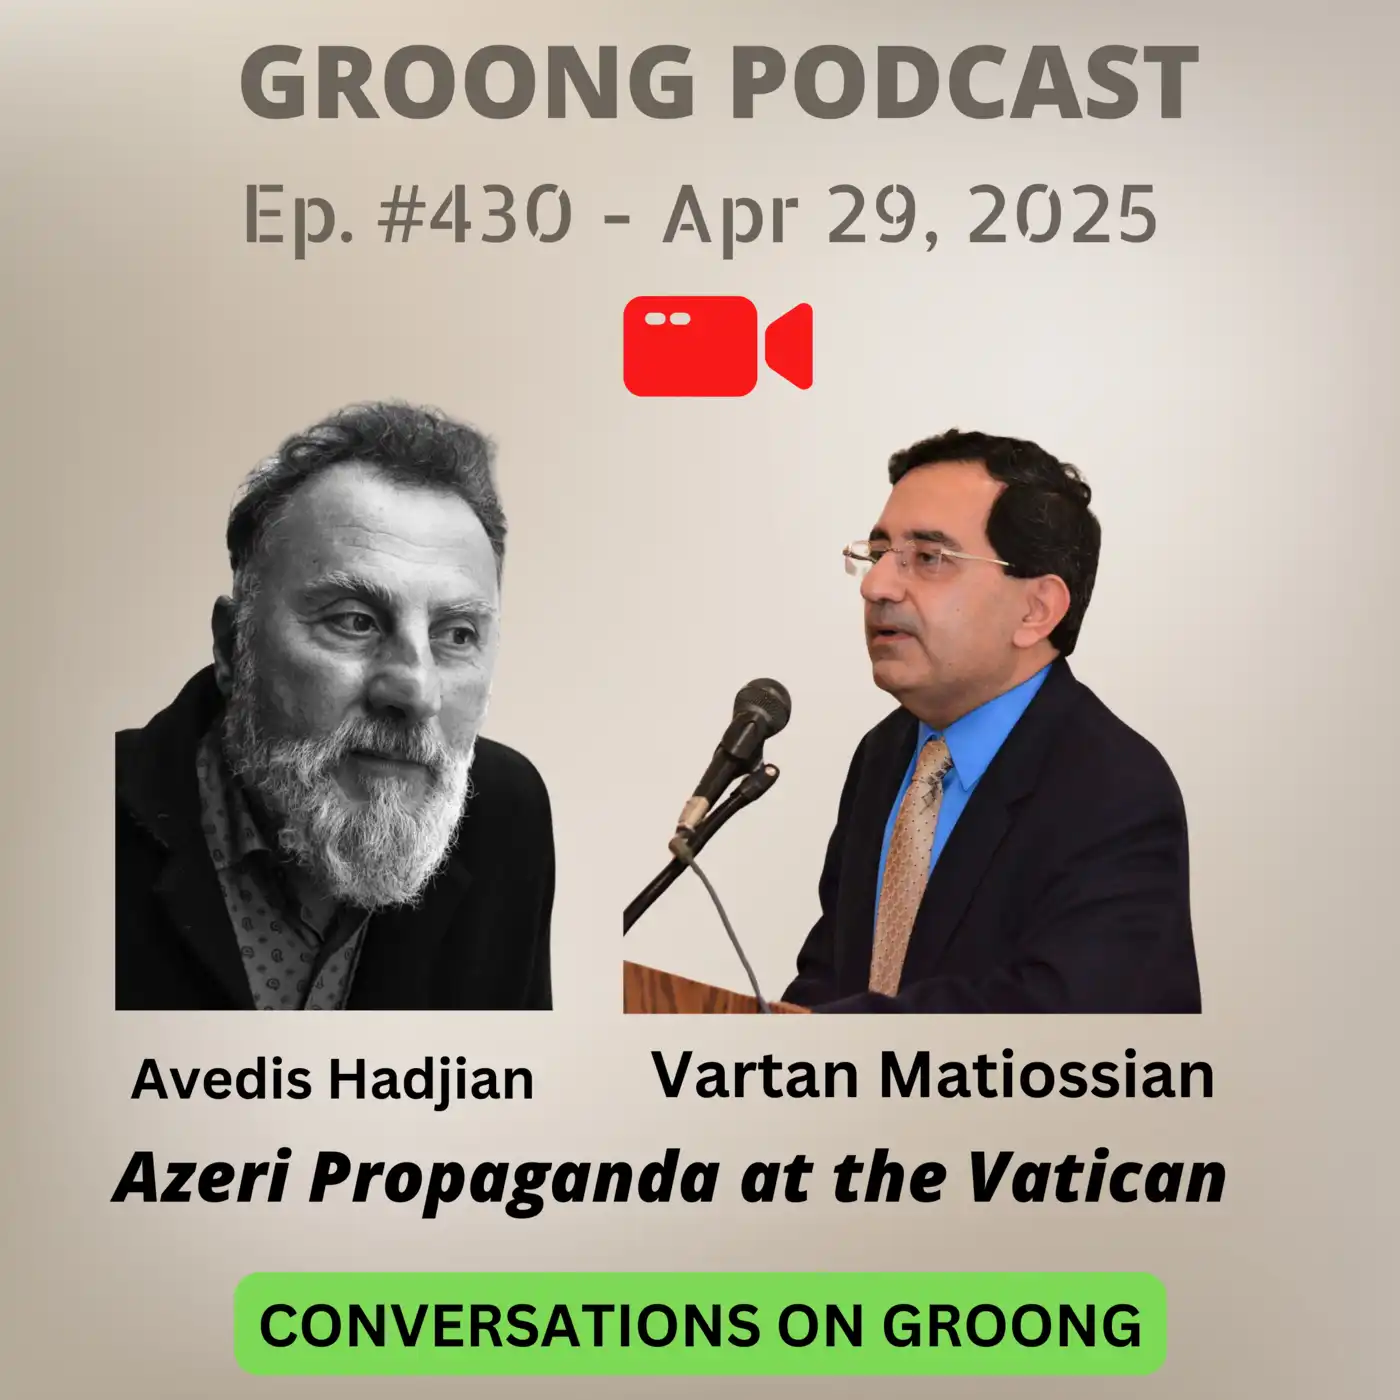
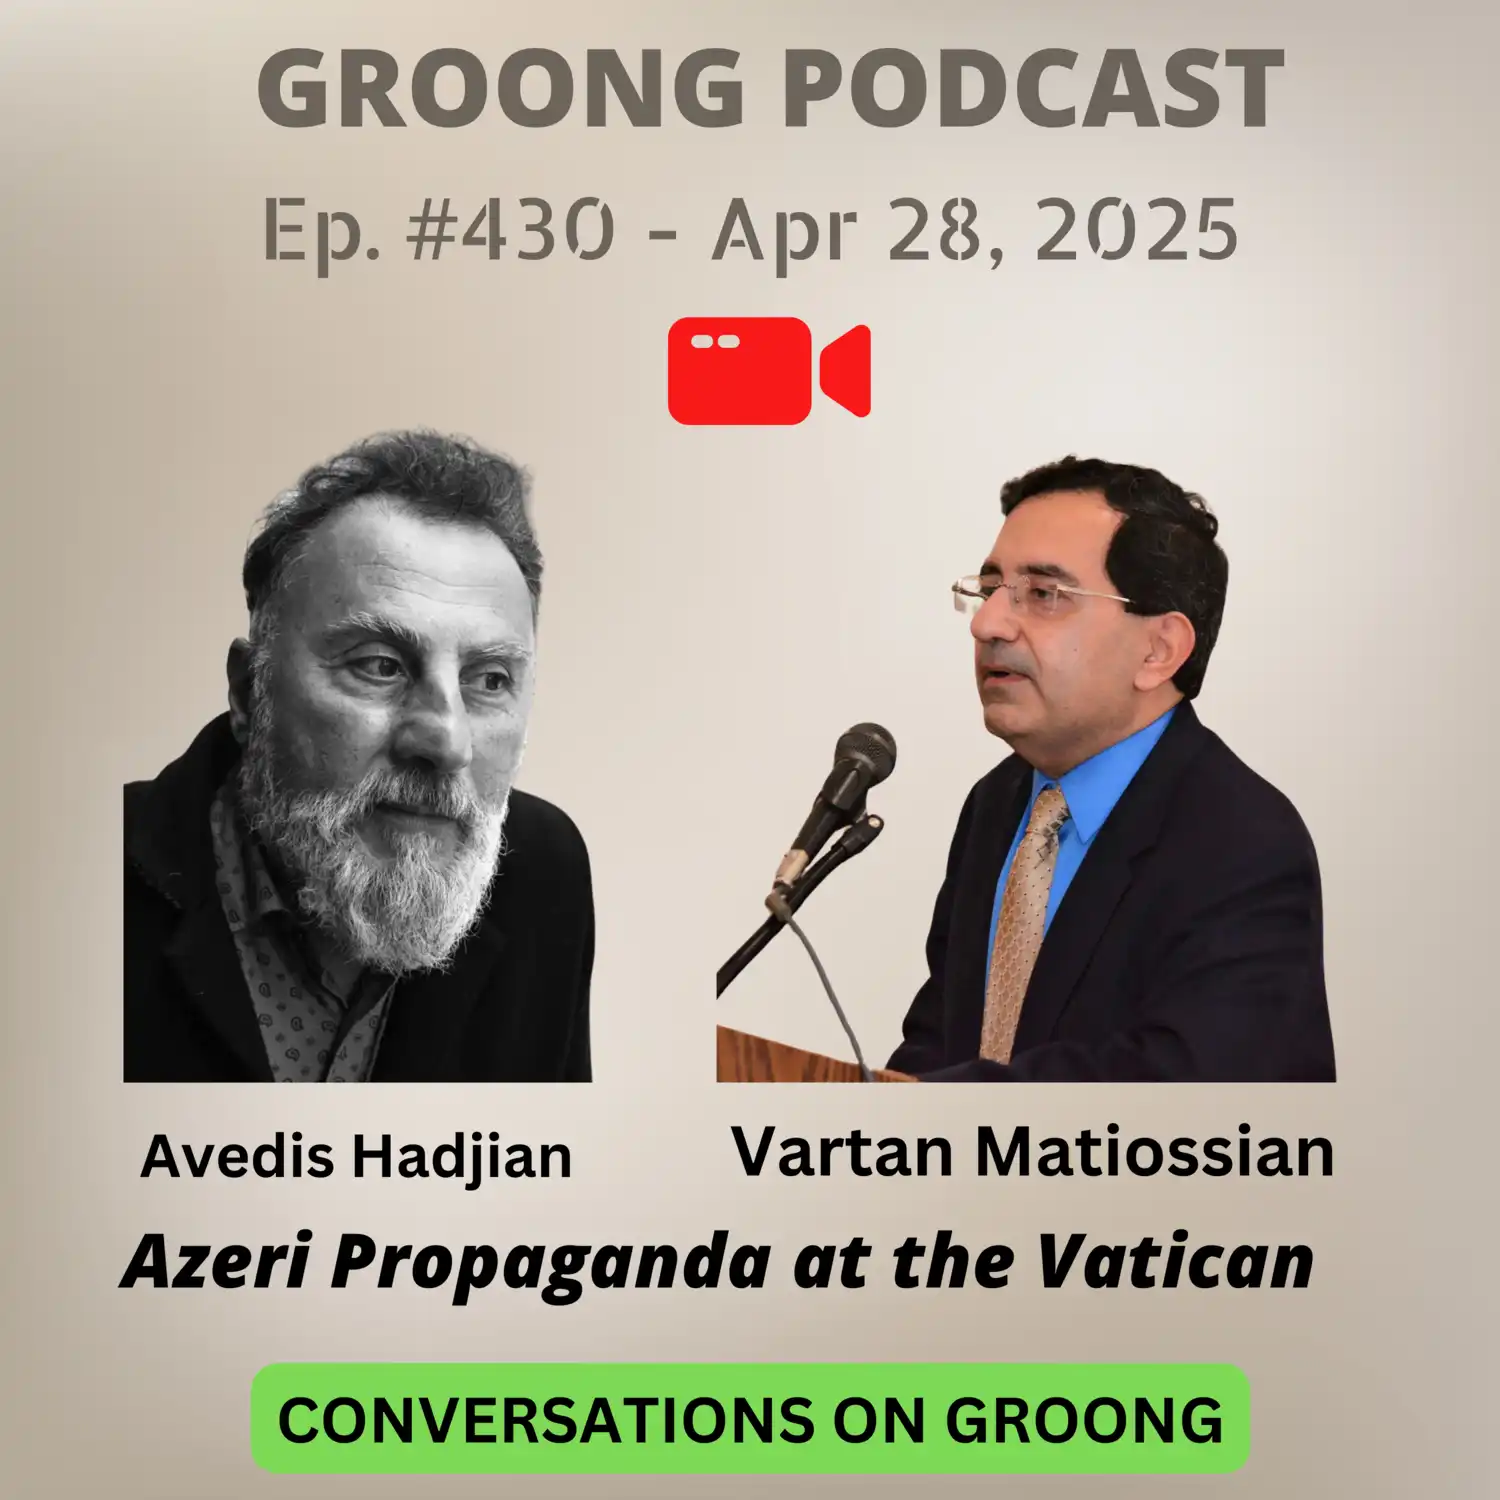
Adding Ep 430

diff --git a/content/episode/430-hadjian-matiossian-vatican-azerbaijan-propaganda-cultural-erasure-artsakh-history.md b/content/episode/430-hadjian-matiossian-vatican-azerbaijan-propaganda-cultural-erasure-artsakh-history.md
@@ -1,0 +1,109 @@
++++
+Date = 2025-04-28T21:00:00-07:00
+
+title = "Vatican Betrays Armenians, Aids Azerbaijani Propaganda (Hadjian & Matiossian) | Ep 430, Apr 29, 2025"
+subtitle = "Conversations on Groong - April 28, 2025"
+
+episode_image = "img/episode/430/thumbnail-430.webp"
+episode_banner = "img/episode/430/banner-430.webp"
+images = ["img/episode/430/banner-430.webp"]
+
+podcast_file = "17062525-vatican-betrays-armenians-aids-azerbaijani-propaganda-hadjian-matiossian-ep-430-apr-29-2025.mp3"
+podcast_duration = "3976"
+podcast_bytes = "47764578"
+youtube = "VgPSd_RboY0"
+
+hosts = ["asbed", "hovik"]
+guests = ["ahadjian", "vmatiossian"]
+episode = "430"
+aliases = ["/430"]
+
+series = ["cog", "video"]
+categories = ["Armenia", "World", "Vatican"]
+tags = ["Armenian News", "Vatican", "Pope Francis", "Avedis Hadjian", "Vartan Matiossian", "Cardinal Gugerotti", "Azerbaijan", "Genocide Denial", "Armenian Genocide", "Ethnic Cleansing", "Nagorno Karabakh", "Artsakh", "Hate Crime", "Pontifical Gregorian University", "Rome", "Ilham Aliyev", "Christianity in Azerbaijan", "Cultural Misappropriation", "Mekhitarist Congregation", "The Color of Choice", "Politics of Race"]
+
+Description = """
+
+#### Groong Links:
+* [GIVE to GROONG](https://podcasts.groong.org/donate)
+* [linktr.ee/Groong](https://linktr.ee/groong)
+
+#### Guest:
+* [Avedis Hadjian](/guest/ahadjian)
+* [Vartan Matiossian](/guest/vmatiossian)
+
+#### Topics:
+* Vatican Hosts Fake Azeri Conference
+* Azerbaijani Propaganda and Cultural Misappropriation
+* Weakness and Silent Complicity of the Armenian State
+
+Episode 430 | Recorded: """
++++
+
+# Show Notes
+
+In this Conversations on Groong episode, we discuss the Vatican's controversial collaboration with Azerbaijan to whitewash the erasure of Armenian history.
+
+In the final weeks of Pope Francis' life, the Pontifical Gregorian University hosted a conference titled *"Christianity in Azerbaijan: History and Modernity,"* backed by Azerbaijan’s regime. The event, with no Armenian participation, advanced a false narrative erasing the Christian Armenian heritage of Artsakh.
+
+We are joined by:
+- **Avedis Hadjian**, journalist and co-author of the letter signed by over 350 scholars condemning the Vatican’s complicity.
+- **Dr. Vartan Matiossian**, historian, Executive Director of the Eastern Prelacy of the Armenian Apostolic Church of New York, and a co-author of the letter.
+
+Together, we examine how the Vatican’s actions fit into a larger pattern of corruption, Azerbaijani propaganda, and the troubling silence of the Armenian state.
+
+---
+
+## Main Topics Addressed
+
+### 1. Corruption of the Church
+- The Vatican’s growing ties with Azerbaijan over the past decade.
+- Vatican institutions accepting donations and honoring Mehriban Aliyeva.
+- The Pontifical Gregorian University's event promoting Azerbaijan’s revisionist history.
+
+### 2. Azerbaijani Propaganda and Cultural Appropriation
+- Azerbaijan’s coordinated campaign to erase Armenian cultural heritage.
+- The misuse of religious platforms to legitimize false historical claims.
+- Broader soft power strategies involving Italy and the Vatican.
+
+### 3. Weakness (or Silent Complicity) of the Armenian State
+- The muted response of the Armenian government to these provocations.
+- The risks of inaction in defending Armenian historical narratives.
+- Broader reflections on Armenia’s diplomatic challenges post-2020.
+
+---
+
+## Key Questions Discussed
+
+- What prompted the open letter signed by over 350 scholars condemning the Vatican’s actions?
+- How does Azerbaijan use cultural appropriation as a political weapon?
+- Why are religious institutions, like the Vatican, attractive targets for authoritarian propaganda?
+- Has the Armenian Apostolic Church or the Armenian state meaningfully responded?
+- Should certain Vatican-affiliated clergy be declared persona non grata by Armenian churches?
+- What are the broader implications for Christian communities that look to the Vatican for moral leadership?
+
+---
+
+## Links Referenced During The Show
+
+- [Donations Tilt Vatican in Favor of Azerbaijan (Armenian Weekly)](https://armenianweekly.com/2024/05/21/donations-tilt-vatican-in-favor-of-azerbaijan/)
+- [How the Vatican Helped Legitimize Azerbaijan’s Autocracy (IRPI Media)](https://irpimedia.irpi.eu/en-how-the-vatican-helped-legitimize-the-autocracy-in-azerbaijanen/)
+- [Gregorian Azerbaijan Conference (National Catholic Register)](https://www.ncregister.com/commentaries/gregorian-azerbaijan-conference)
+- [Armenian Leaders Criticize Vatican Azeri Event (Pillar Catholic)](https://www.pillarcatholic.com/p/armenian-leaders-pan-vatican-azeri)
+- [Over 350 Scholars Condemn Vatican Complicity (Horizon Weekly)](https://horizonweekly.ca/en/over-350-scholars-condemn-vaticans-complicity-in-azerbaijans-erasure-of-armenian-heritage/)
+- [Mother See Condemns “Western Azerbaijan” Exhibit in Warsaw (Armenian Church)](https://www.armenianchurch.org/en/news/%E2%80%8B%E2%80%8Bmother-see-condemns-the-organization-of-the-western-azerbaijan-exhibition-in-warsaw/11800)
+
+---
+
+## Other Resources
+
+- [Support Groong on Patreon](https://www.patreon.com/ann_groong)
+- [Buy Me A Coffee - Support Groong](https://www.buymeacoffee.com/groong)
+
+
+# Wrap-up
+
+That’s our [show](https://podcasts.groong.org/)! We hope you found it useful. Please find us on [Social Media](https://linktr.ee/groong) and follow us everywhere you get your Armenian news.
+
+Thanks to **Laura Osborn** for the music on our podcasts.
+

diff --git a/content/guest/vmatiossian.md b/content/guest/vmatiossian.md
@@ -20,4 +20,4 @@ Twitch = ""
 
 Vartan Matiossian is an Armenian Studies scholar specialized in history and literature. He is the Executive Director of the [Eastern Prelacy of the Armenian Apostolic Church](https://armenianprelacy.org/) in New York. Born in Montevideo (Uruguay), he moved to Buenos Aires (Argentina) in his childhood and graduated from the University of Buenos Aires. He has lived in New Jersey since 2000. He obtained his Ph.D. in History from the Institute of History of the National Academy of Sciences of Armenia in 2006.
 
-He has published extensively in Armenian, Spanish, and English, including ten books and many scholarly articles, reviews, translations, and commentaries. He has edited several volumes and translated more than two dozen of books into Spanish, English, and Armenian. He is the author in English of [Armenian Language Matters](https://armenianprelacy.org/product/armenian-language-matters/?srsltid=AfmBOor2-aKvZhQxTR0Xucb49nIdeyFCwE6t0_ELN1q_QjcUEenjWbBp) (2019), [The Politics of Naming the Armenian Genocide: Language, History and 'Medz Yeghern'](https://www.bloomsbury.com/us/politics-of-naming-the-armenian-genocide-9780755641109/) (2022), and has co-authored [A Woman of the World: Armen Ohanian, the "Dancer of Shamakha"](https://armenianprelacy.org/product/a-woman-of-the-world-armen-ohanian-the-dancer-of-shamakha-softcover) (2023) with Artsvi Bakhchinyan. His book [The Color of Choice: The Armenians and the Politics of Race in the United States and Germany (1890-1945)](https://brill.com/display/title/71661?srsltid=AfmBOopU-4mbeBN0qpsDkHt0xVUtaum8DOu0BVATtAfz3kJmgiEI5RTr) will be publised in the summer of 2025.
+He has published extensively in Armenian, Spanish, and English, including ten books and many scholarly articles, reviews, translations, and commentaries. He has edited several volumes and translated more than two dozen of books into Spanish, English, and Armenian. He is the author in English of [Armenian Language Matters](https://armenianprelacy.org/product/armenian-language-matters/?srsltid=AfmBOor2-aKvZhQxTR0Xucb49nIdeyFCwE6t0_ELN1q_QjcUEenjWbBp) (2019), [The Politics of Naming the Armenian Genocide: Language, History and 'Medz Yeghern'](https://www.bloomsbury.com/us/politics-of-naming-the-armenian-genocide-9780755641109/) (2022), and has co-authored [A Woman of the World: Armen Ohanian, the "Dancer of Shamakha"](https://armenianprelacy.org/product/a-woman-of-the-world-armen-ohanian-the-dancer-of-shamakha-softcover) (2023) with Artsvi Bakhchinyan. His book [The Color of Choice: The Armenians and the Politics of Race in the United States and Germany (1890-1945)](https://brill.com/display/title/71661?srsltid=AfmBOopU-4mbeBN0qpsDkHt0xVUtaum8DOu0BVATtAfz3kJmgiEI5RTr) will be published in the summer of 2025.
